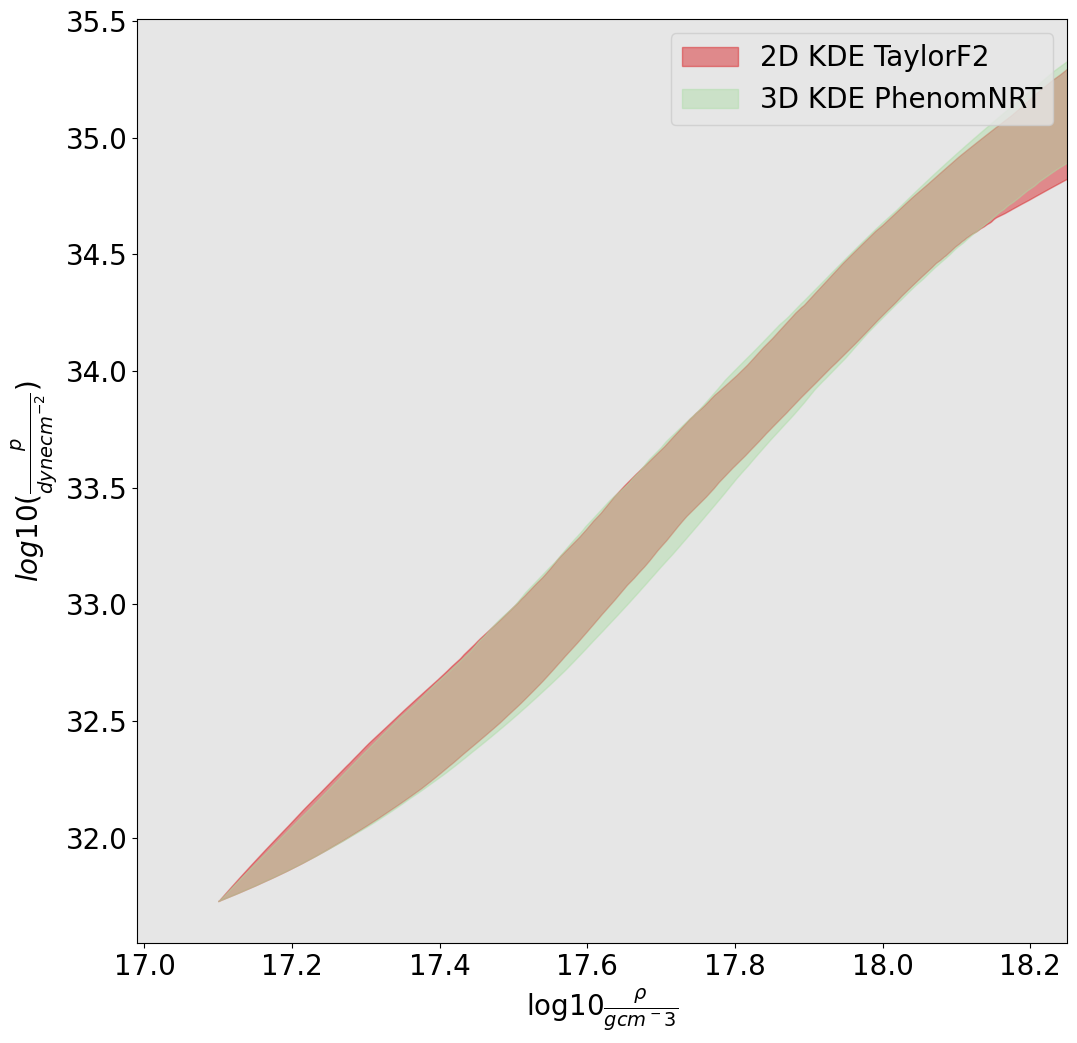
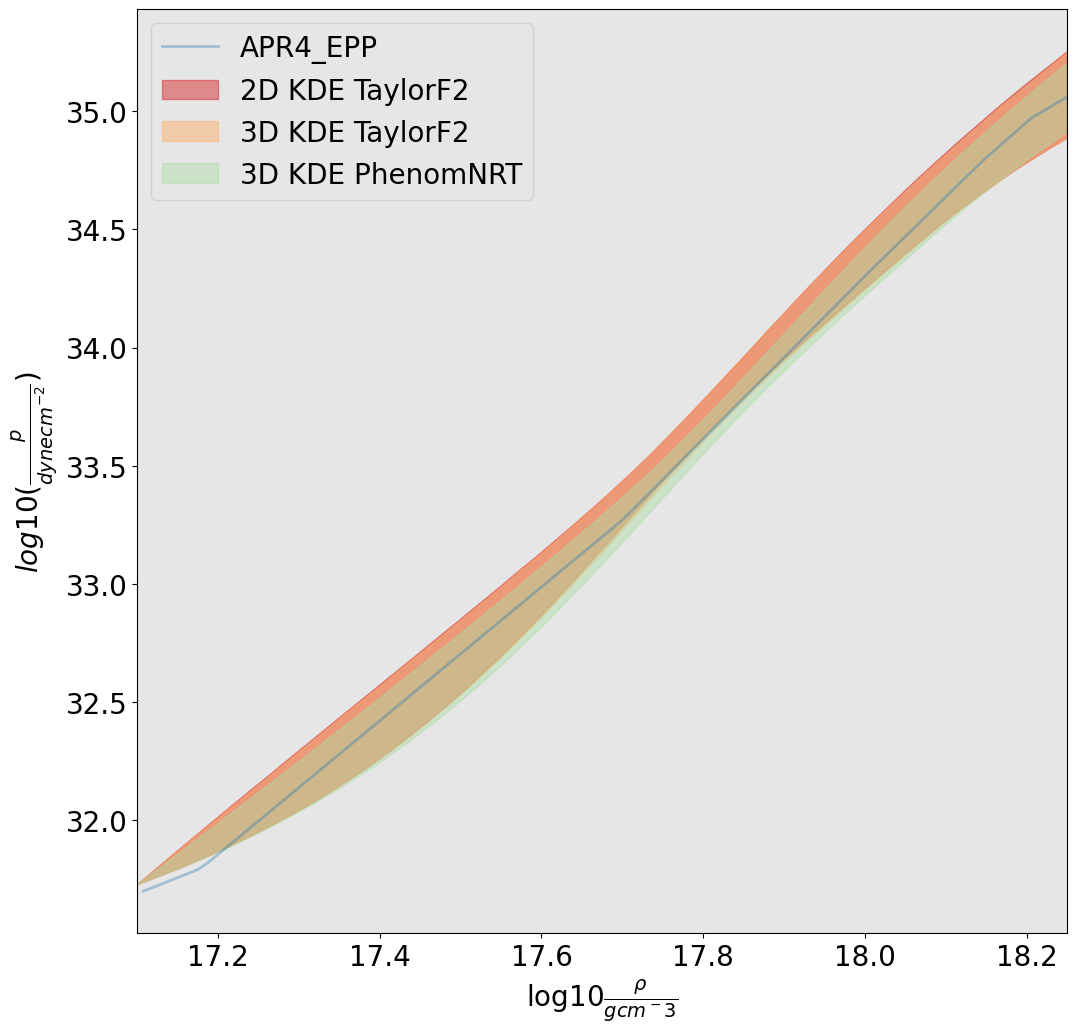
Full joint 16 simulation constraint is complete.

diff --git a/year3/lastStretch/simulConstraint.py b/year3/lastStretch/simulConstraint.py
@@ -104,15 +104,15 @@ def calcConstraint2(burn_in_frac=0.5,thinning=None):
 def plotConstraint():
     # Adopted from Anarya's GWXtreme 3d kde prod branch's plotting logic.
 
-    #labels = ["2D-KDE-TaylorF2", "3D-KDE-TaylorF2", "3D-KDE-PhenomNRT"]
+    labels = ["2D-KDE-TaylorF2", "3D-KDE-TaylorF2", "3D-KDE-PhenomNRT"]
     #labels = ["2D-KDE-TaylorF2", "3D-KDE-TaylorF2"]
-    labels = ["3D-KDE-TaylorF2", "3D-KDE-PhenomNRT"]
-    #Labels = ["2D KDE TaylorF2", "3D KDE TaylorF2", "3D KDE PhenomNRT"]
+    #labels = ["3D-KDE-TaylorF2", "3D-KDE-PhenomNRT"]
+    Labels = ["2D KDE TaylorF2", "3D KDE TaylorF2", "3D KDE PhenomNRT"]
     #Labels = ["2D KDE TaylorF2", "3D KDE TaylorF2"]
-    Labels = ["3D KDE TaylorF2", "3D KDE PhenomNRT"]
-    #Colors = ["#d7191c","#fdae61","#abdda4"]
+    #Labels = ["3D KDE TaylorF2", "3D KDE PhenomNRT"]
+    Colors = ["#d7191c","#fdae61","#abdda4"]
     #Colors = ["#d7191c","#fdae61"]
-    Colors = ["#fdae61","#abdda4"]
+    #Colors = ["#fdae61","#abdda4"]
 
     plt.figure(figsize=(12,12))
     plt.rc('font', size=20)
@@ -124,14 +124,15 @@ def plotConstraint():
     for label, Label, Color in zip(labels,Labels,Colors): # increment over each plot file
 
         # Load the samples
-        filename='data/constraints/{}_16simulationsInference1000samp.txt'.format(label)
+        filename='data/constraints/{}_16simulationsInference.txt'.format(label)
         rho, lower_bound, median, upper_bound = np.loadtxt(filename).T
 
         #plt.plot(lower_bound, rho, label=Label, color=Color)
         #plt.plot(upper_bound, rho, color=Color)
         plt.fill_between(np.log10(rho), lower_bound, upper_bound, color=Color, alpha=0.45, label=Label, zorder=1.)
 
-    EoSs = ["APR4_EPP","H4","SLY","MS1_PP"]
+    #EoSs = ["APR4_EPP","H4","SLY","MS1_PP"]
+    EoSs = ["APR4_EPP"]
     for EoS in EoSs:
         logp=eos_p_of_rho(rho,lalsimulation.SimNeutronStarEOSByName(EoS))
         plt.plot(np.log10(rho),logp, linewidth=2.0, label=EoS, alpha=0.35)
@@ -140,6 +141,6 @@ def plotConstraint():
     plt.xlabel(r'$\log10{\frac{\rho}{g cm^-3}}$',fontsize=20)
     plt.ylabel(r'$log10(\frac{p}{dyne cm^{-2}})$',fontsize=20)
     plt.legend()
-    #plt.savefig("plots/constraints/16simulations_constraint.png", bbox_inches='tight')
-    plt.savefig("plots/NSFreport/16simulations_constraint2.pdf", bbox_inches='tight')
+    plt.savefig("plots/constraints/16simulations_constraint.png", bbox_inches='tight')
+    #plt.savefig("plots/NSFreport/16simulations_constraint2.pdf", bbox_inches='tight')
 
